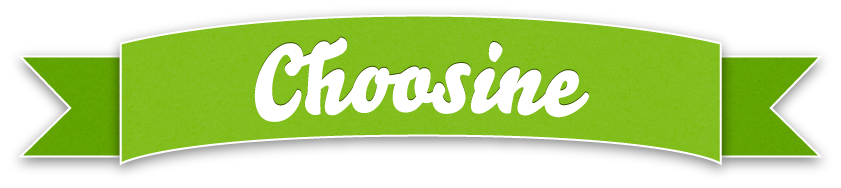
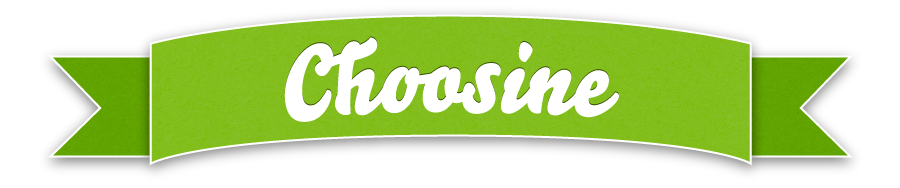
basic app page completed. need to make static

diff --git a/html/css/style.css b/html/css/style.css
@@ -4,78 +4,75 @@ html, body { margin: 0; padding: 0; }
 body {
     background: url('../images/yellow.jpg') #FFFF00;
 }
-/*a:link,
+a:link,
 a:visited { 
     text-decoration: none;
-    color: #F38921; 
-    border-bottom: 1px dotted #F38921;
+   // color: #F38921; 
+   // border-bottom: 1px dotted #F38921;
 }
 a:hover,
 a:focus {
-    border-bottom: 1px dotted #F8bc74;
-    color: #F8bc74;
+  //  border-bottom: 1px dotted #F8bc74;
+  //  color: #F8bc74;
 }
-*/
+
 .floatleft { float: left; }
 .floatright { float: right; }
 .clear { clear: both; }
 
-/*
-input,
-textarea {
-    width: 160px;
-    border: 1px solid #ddd;
-    font-size: 14px;
-    padding: 5px;
-}*/
+
 
 /*Layout
   --------------------------------------------------*/
 div#wrapper {
-    width: 950px;
+    width: 90%;
+    min-width: 950px;
     min-height: 100%;
     margin: 0 auto;
     padding: 0;
     background: url('../images/gold.jpg') #FCEE21;
 }
-#home div#content-area {
+#container {
     width: 900px;
     min-height: 100%;
     margin: 0 auto;
     padding: 0;
 }
-#content-area .text {
+#container .text {
     margin: 170px auto 100px auto;
-    width: 350px;
+    width: 320px;
     color: #fff;
     font: 14pt 'Rokkitt', helvetica, arial, sans-serif;
 }
-#content-area ul {
+#container ul {
     list-style-image: none;
 }
-#content-area li {
+#container li {
     clear: both;
     padding: 0;
 }
-#content-area img.bullet {
-  //  background: url('../images/badge_small.png') no-repeat;
+#container img.bullet {
     width: 40px;
     height: 40px;
     float: left;
     margin: 0 10px 3px 0;
-   // color: #39B54A;
-   // font: 16pt 'Rokkitt', helvetica, arial, sans-serif;
-   // text-shadow: 0px -1px 0.5px #04680E;
-   // text-align: center;
-   // padding-top: 10px;
     position: relative;
     top: -11px;
+}
+#content-area {
+    height: 220px;
+    padding: 50px;
+    width: 600px;
+    margin: auto;
+    position: relative;
+    top: 200px;
+}
+body#cuisine #content-area {
+    background: url('../images/bluec.jpg') #0071BC;
 }
 #banner {
     position: absolute;
     top: 10px;
-    left: 50%;
-    margin-left: -420px;
     z-index: 100;
 }
 #footer {
@@ -83,7 +80,7 @@ div#wrapper {
     position: fixed;
     bottom: 0;
     width: 880px;
-    height: 20px;
+    height: 15px;
     color: #fff;
     background: url('../images/green.jpg');
     font: 12pt 'Rokkitt', helvetica, arial, sans-serif;
@@ -103,7 +100,7 @@ div#wrapper {
 
 /*Page Styles
   ------------------------------------------------------------*/
-/* Home Page -------------------------------------------------*/
+/* Begin Home Styles -----------------------------------------*/
 div#restaurants {
     width: 450px;
     min-height: 100%;
@@ -132,4 +129,39 @@ div#cuisine {
     font: 20pt 'Coustard', 'Rokkitt', helvetica, arial, sans-serif;
     text-shadow: 0px -1px 0.5px #04680E;
 }
+div.badge:hover, div.badge:focus {
+    background: url('../images/badge_hover.png') no-repeat;
+}
 /* End Home Styles -------------------------------------------*/
+/* Begin Form Styles -----------------------------------------*/
+#content-area table {
+    margin: auto;
+}
+input,
+textarea {
+    width: 430px;
+    border: 1px solid #ddd;
+    font-size: 14pt;
+    padding: 5px;
+    margin-bottom: 20px;
+}
+#content-area label {
+    color: #fff;
+    font: 16pt 'Rokkitt', helvetica, arial, sans-serif;
+    margin-right: 40px;
+}
+body#cuisine input, body#cuisine textarea {
+   // border: 1px solid #fff;
+    //background-color: #D9E021;
+    //color: #fff;
+}
+#nav-left {
+   // position: absolute;
+   // top: 50%;
+    float: left;
+}
+#nav-right {
+    //position: absolute;
+   // top: 50%;
+    float: right;
+}

diff --git a/html/initiate.html b/html/initiate.html
@@ -10,36 +10,37 @@
 <link rel="stylesheet" href="./css/reset.css" type="text/css" />
 <link rel="stylesheet" href="./css/style.css" type="text/css" />
 </head>
-<body id="home">
+<body id="cuisine">
 <div id="wrapper">
   <div id="container">
     <a href="./index.html"><img src="./images/choosine.png" id="banner"/></a>
-  <div id="restaurants">
-    <a href="./initiate.html?=restaurants">
-  <div class="badge">Restaurants</div>
-    <div class="text">
-      <ul>
-	<li><img class="bullet" src="./images/bullet1.png" />Create a poll.</li>
-	<li><img class="bullet" src="./images/bullet2.png" />Nominate your favorite restaurants.</li>
-	<li><img class="bullet" src="./images/bullet3.png" />Invite your friends to vote.</li>
-      </ul>
-    </div>
-    </a>
-  </div>
-  
-  <div id="cuisine">
-    <a href="./initiate.html?=cuisine">
-   <div class="badge">Cuisine</div>
-   <div class="text">
-      <ul>
-	<li><img class="bullet" src="./images/bullet1.png" />Create a poll.</li>
-	<li><img class="bullet" src="./images/bullet2.png" />Rank cuisines by preference.</li>
-	<li><img class="bullet" src="./images/bullet3.png" />Invite your friends to vote.</li>
-      </ul>
-    </div>
-    </a>
-  </div>
 
+    <div id="content-area">
+       <form name="input" method="post">
+	  <div class="form">
+	  <table>
+	    <tr>
+	      <td><label for="dinner">Dinner Name:</label></td>
+	      <td><input id="dinner" name="dinner" /></td>
+	    </tr><tr>
+	      <td><label for="name">Your Name:</label></td>
+	      <td><input id="name" name="name" /></td>
+	    </tr><tr>
+	      <td><label for="email">Your Email:</label></td>
+	      <td><input id="email" name="email"
+		placeholder="" /></td>
+	      </tr><tr>
+		<td><label for="location">Your Location:</label></td>
+		<td><input id="location" name="location"
+       placeholder="City, State or ZIP"/></td>
+	      </tr>
+		</table>
+		</form>
+	 </div>
+    </div>
+    <a href="#"><img src="./images/left.png" id="nav-left" /></a>
+    <a href="#"><img src="./images/right.png" id="nav-right" /></a>
+    
   <div class="clear"></div>
   <div id="footer">We know you're really excited to use Choosine,
   but it doesn't exist yet! Sorry :(</div>
